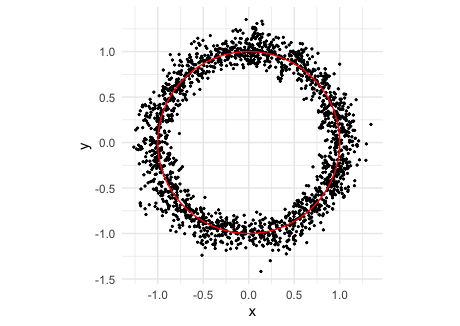
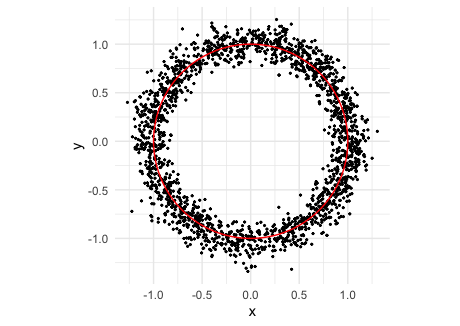
Re-knit README with updated no-contour message

diff --git a/README.md b/README.md
@@ -232,7 +232,7 @@ ggplot() +
   geom_variety(poly = p7^2, xlim = c(-2, 2), ylim = c(-2, 2)) +
   coord_equal()
 #> All values are positive on the plotting grid; try shift = -0.000562449.
-#> Zero contours were generated
+#> No zero contour found in the plotting window.
 ```
 
 ``` r
